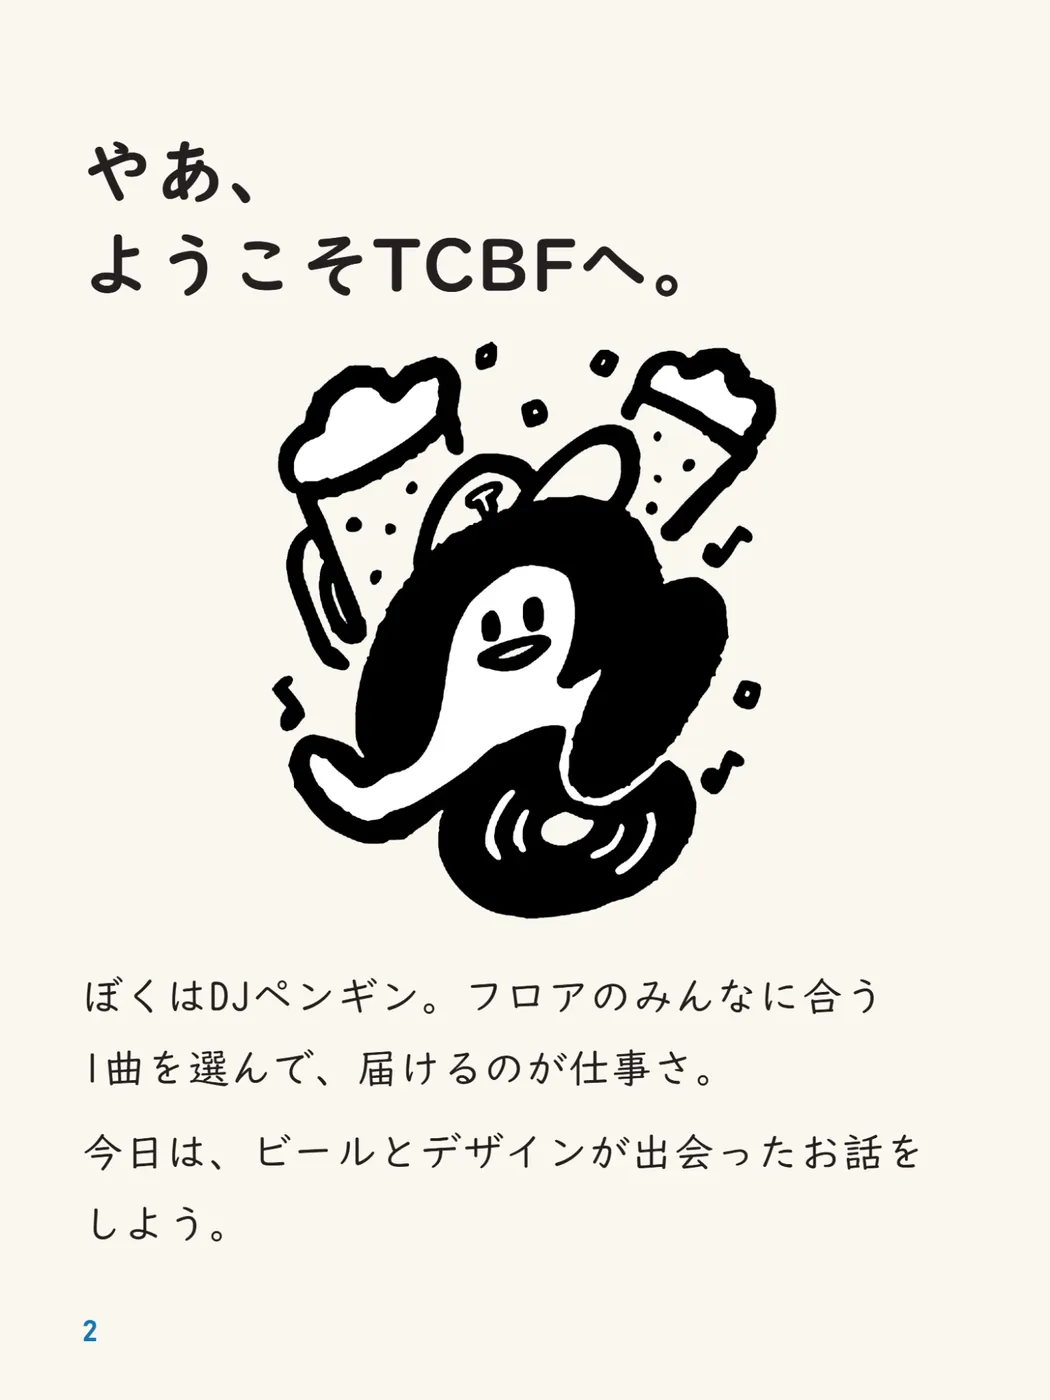
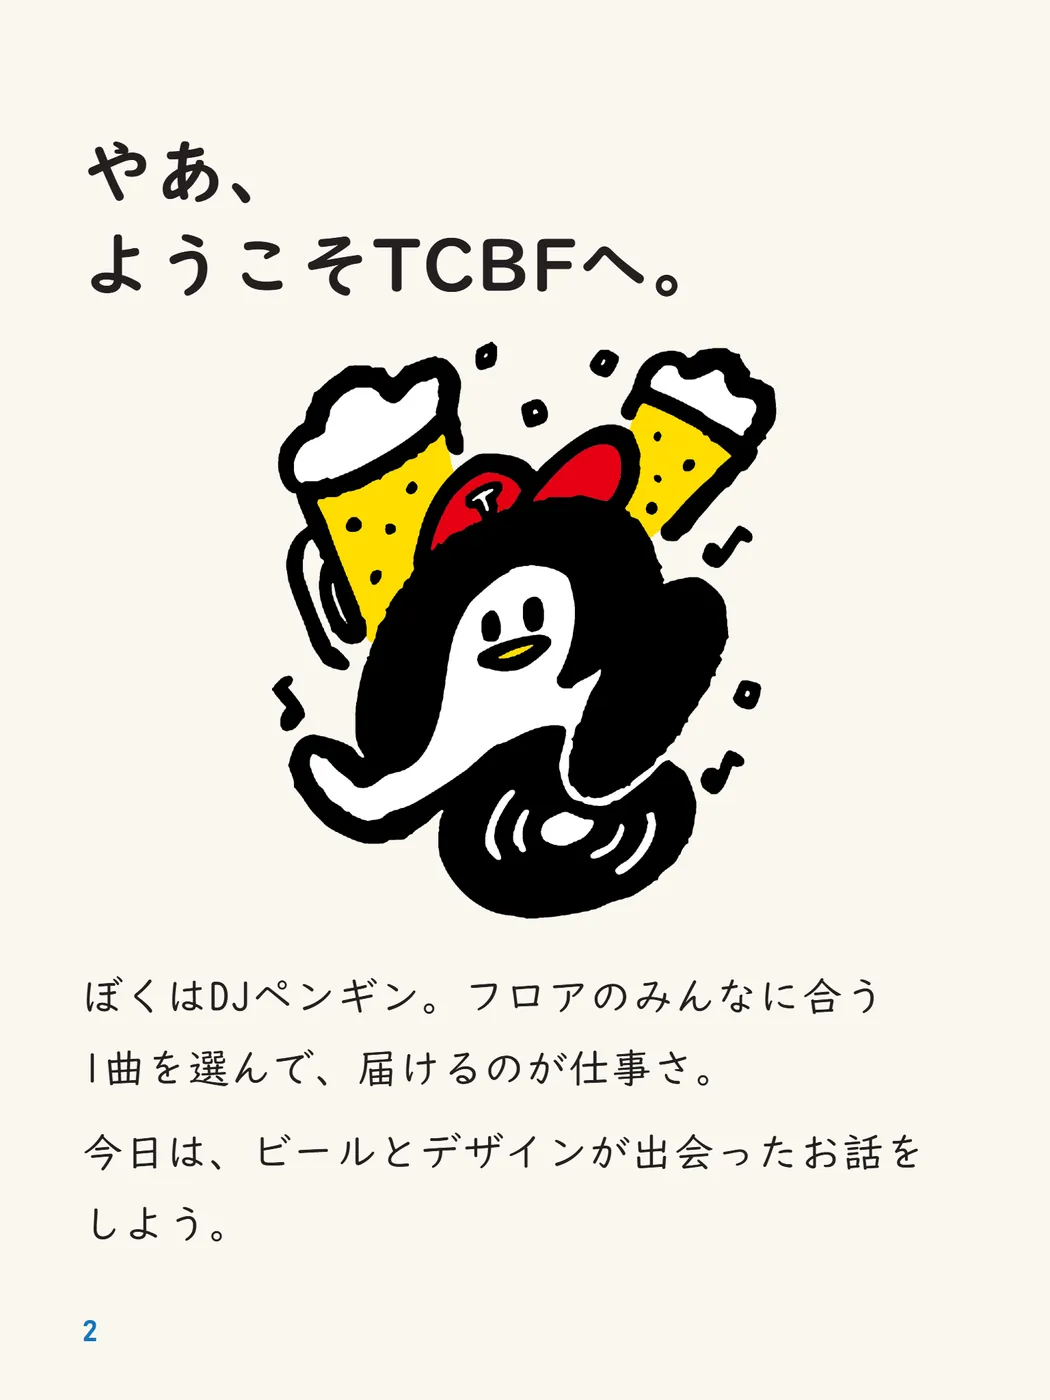
fix: 絵本の画像を更新（DJペンギンを表紙と同じ配色に、P10「味覚タイプ診断」→「ビールタイプ診断」）

Changed region(s): [[0.3048, 0.2764, 0.701, 0.4607]]

diff --git a/index.html b/index.html
@@ -2124,7 +2124,7 @@ a.btn { text-decoration: none; }
     { t: '学生たちに渡した問い', x: '約40のブルワリーの中から、“自分に合う一杯”に出会ってもらうには？ テーマ「飲む前に、出会う。飲んだ後に、気づく。」目だけでなく、手ざわりや香りに届くアイデアも歓迎した。' },
     { t: '2026年07月27日、11のアイデアが届いた。', x: '学生たちは1つずつ発表し、企業やつくば市、大学など22人の審査員と語り合った。質問やコメントは、画面の文字でも共有。聞こえ方に関係なく、同じ情報を見ながら話せたんだ。文字の共有に使ったのは、筑波技術大学の「ISeee TimeLine」。' },
     { t: '選ばれたのは、3つのアイデア。', x: 'ひとつめは、味のタイプを知って、好みの“逆”にも出会えるアイデア。ふたつめは、かわいいキャラが、はじめての人をむかえるアイデア。みっつめは、料理からビールに出会うアイデア。絵や英語で、ことばの壁もこえる。' },
-    { t: '選ばれたアイデアが、会場にやってくる。', x: '学生たちのアイデアは、TCBF2026の会場で本物になる。たとえば「味覚タイプ診断」。8つの質問に答えると、16タイプからあなたのビール性格が分かる。32のブルワリーから、タイプに近い一杯も紹介するよ。' },
+    { t: '選ばれたアイデアが、会場にやってくる。', x: '学生たちのアイデアは、TCBF2026の会場で本物になる。たとえば「ビールタイプ診断」。8つの質問に答えると、16タイプからあなたのビール性格が分かる。32のブルワリーから、タイプに近い一杯も紹介するよ。' },
     { t: 'さあ、会場で楽しもう！', x: '学生たちが考えた仕掛けが、会場であなたを待っている。タイプが分かったら、「合う一杯」と「真逆の一杯」を飲みくらべてみて。伝わり方が変われば、出会いが変わる。思いきり楽しんでね！ 診断はスマホでいつでも。2026年10月16日（金）〜18日（日）つくばセンター広場。' },
     { t: '裏表紙', x: 'beer meets Design ／ Tsukuba Craft Beer Fest 2026。主催 つくばクラフトビアフェスト実行委員会、共催 つくばまちなかデザイン株式会社、協力 つくば市・つくばセンター地区活性化協議会。いっしょに考えてくれた人たち：筑波技術大学の学生のみなさん。tsukuba-craftbeerfest.com' },
   ];
